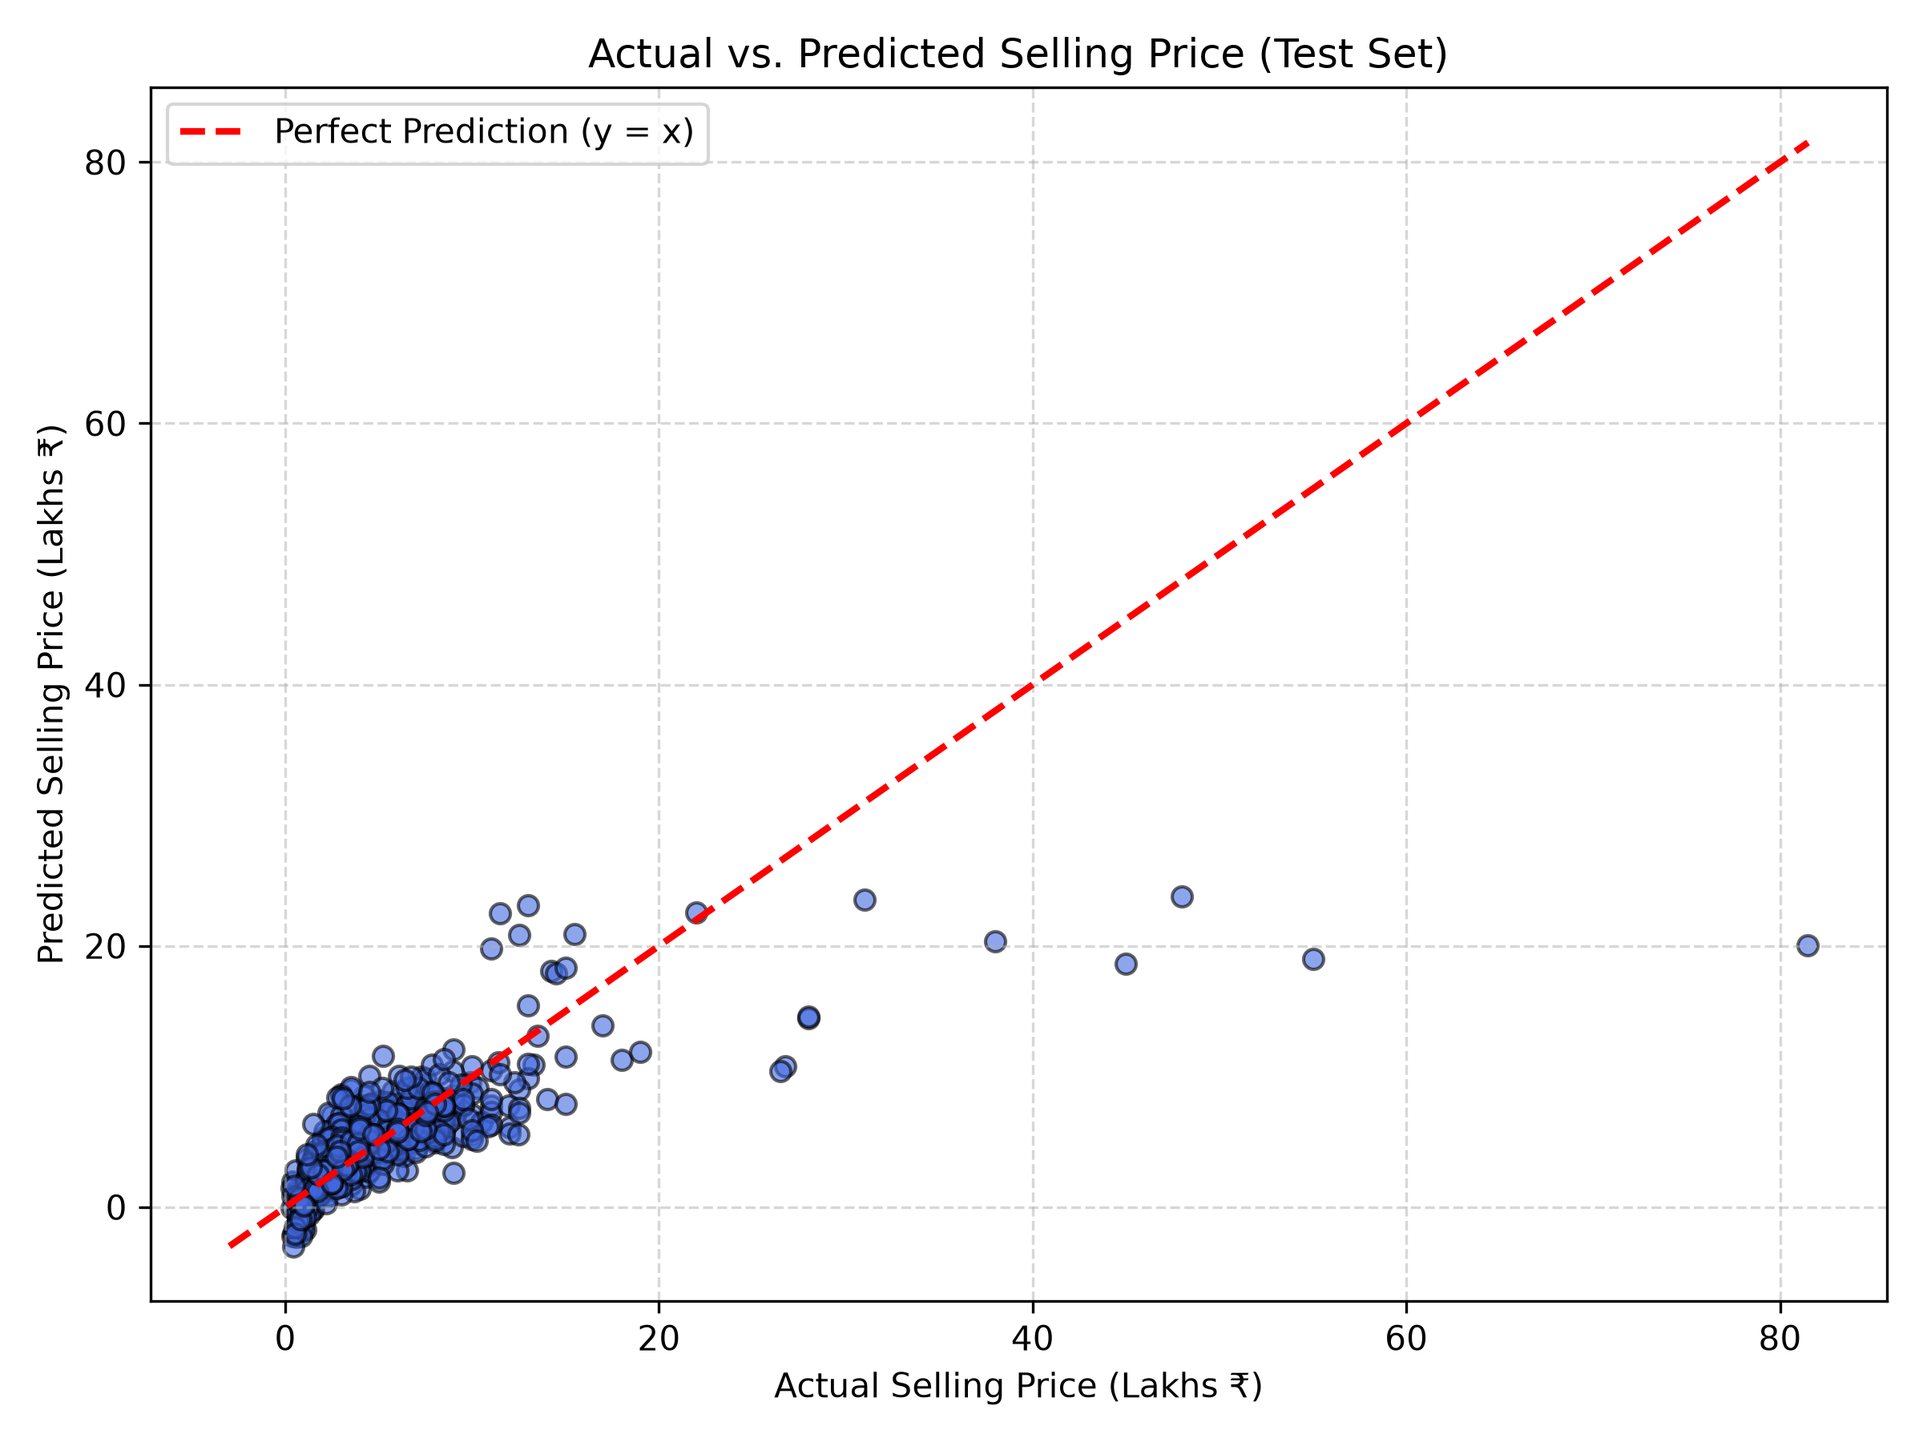
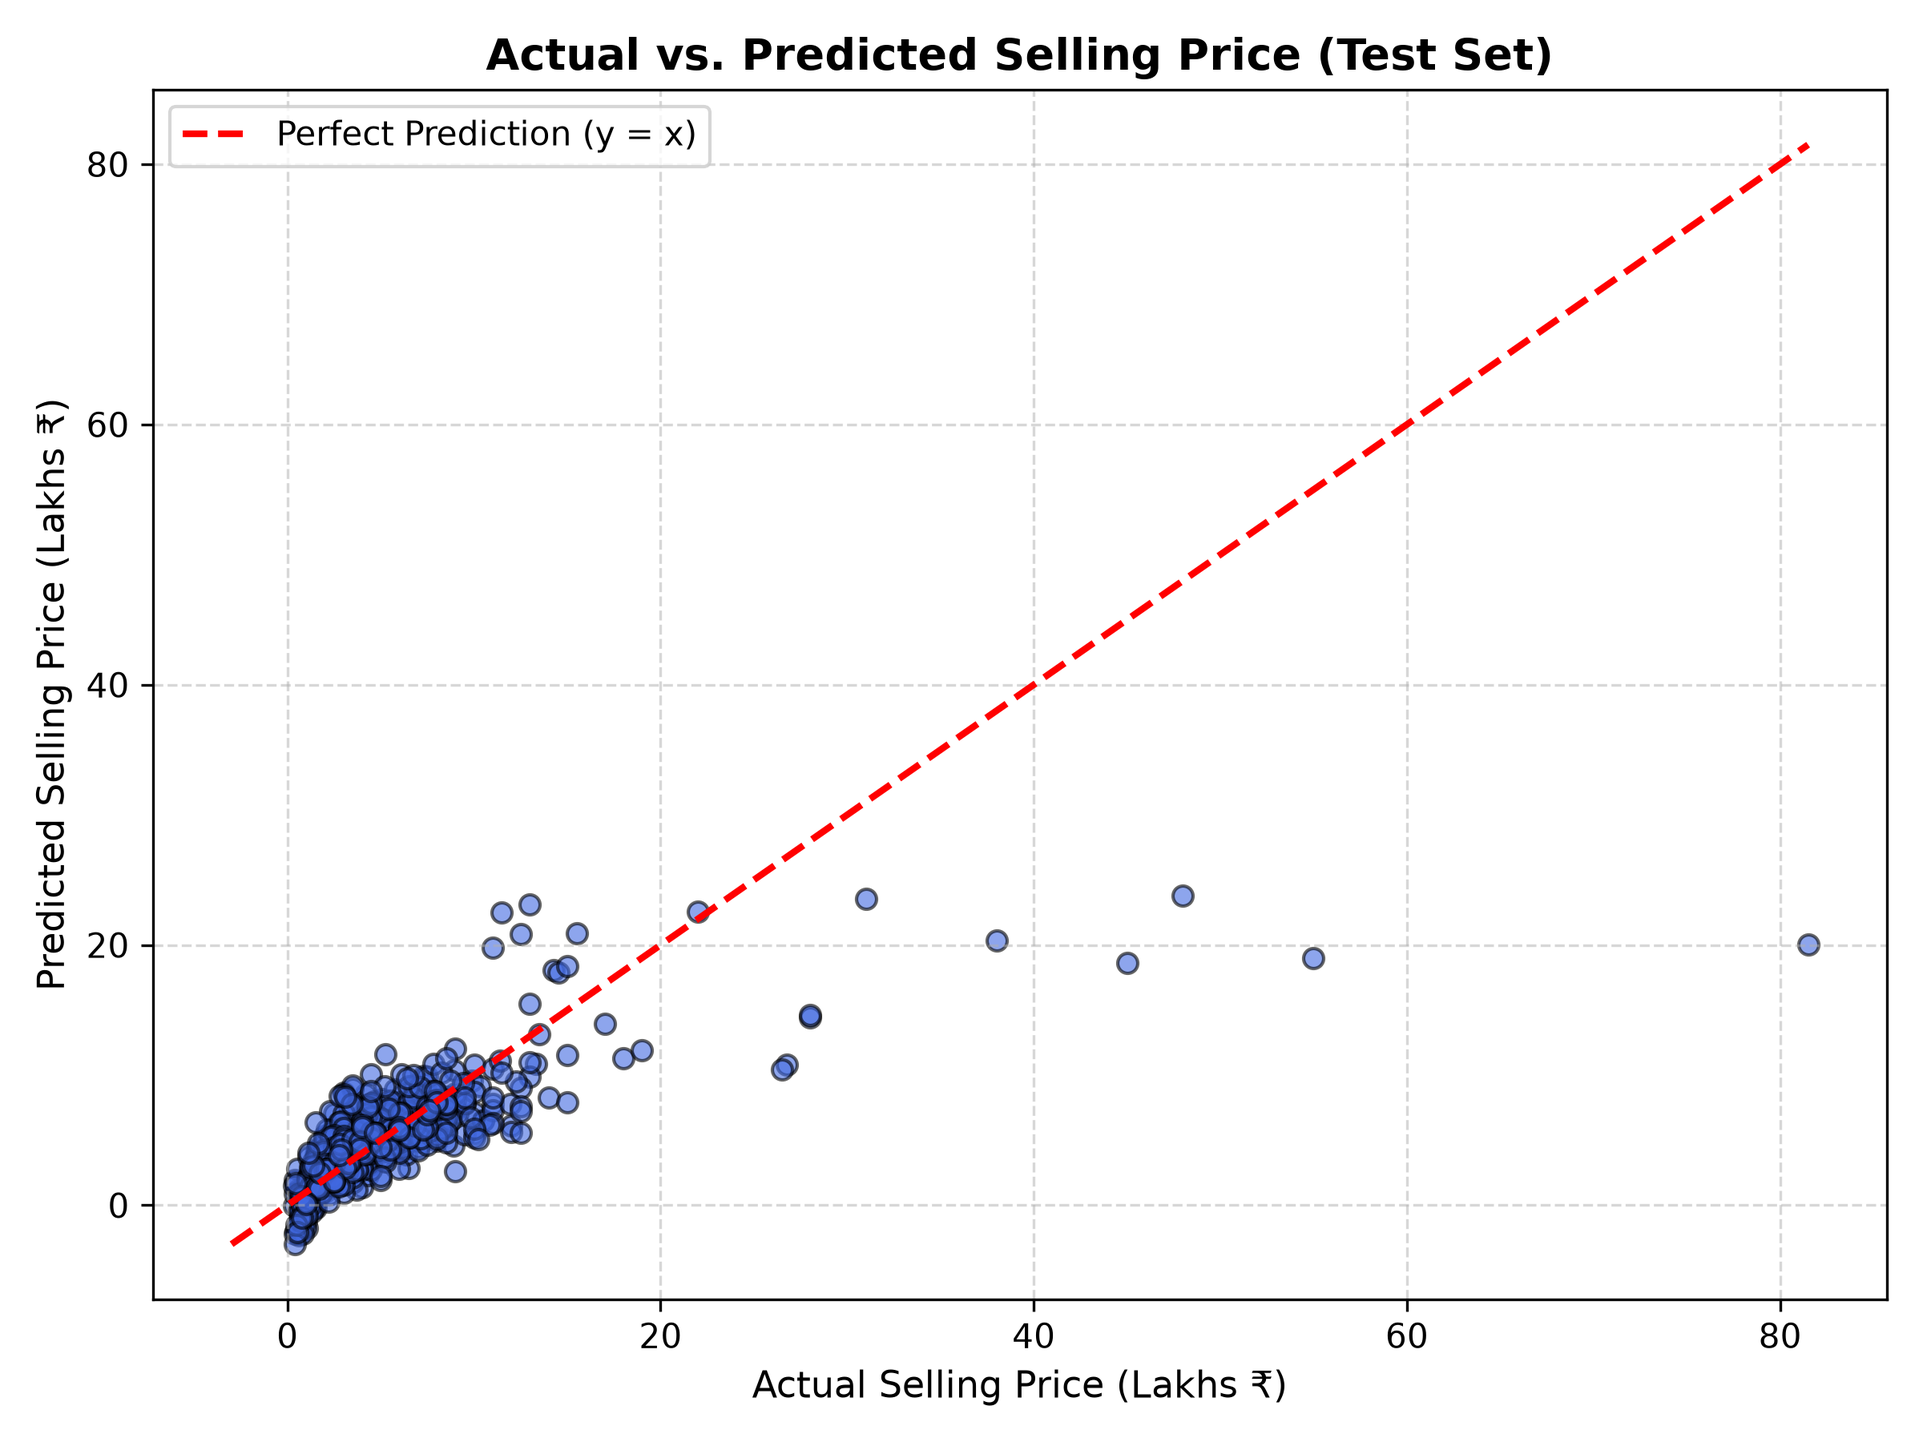
Add training metrics comparison and split coefficient plots into brand, numeric, and categorical views

diff --git a/src/main.py b/src/main.py
@@ -33,9 +33,9 @@ def load_and_clean_data(data_path: Path) -> pd.DataFrame:
     if not data_path.exists():
         raise FileNotFoundError(f"Dataset not found at {data_path}")
 
-    print("=" * 60)
-    print("   USED CAR PRICE PREDICTION - PIPELINE EXECUTION")
-    print("=" * 60)
+    print("=" * 65)
+    print("      USED CAR PRICE PREDICTION - PIPELINE EXECUTION")
+    print("=" * 65)
     print("\n[1/5] Loading and cleaning dataset...")
 
     df = pd.read_csv(data_path)
@@ -143,48 +143,55 @@ def build_and_train_model(X_train: pd.DataFrame, y_train: pd.Series, numeric_fea
     }).sort_values(by="Coefficient", ascending=False).reset_index(drop=True)
 
     print(f"      Base Intercept: ₹{intercept:,.2f}")
-    print(f"      Top Positive Driver: {coef_df.iloc[0]['Feature']} (+₹{coef_df.iloc[0]['Coefficient']:,.2f})")
-    print(f"      Top Negative Driver: {coef_df.iloc[-1]['Feature']} (₹{coef_df.iloc[-1]['Coefficient']:,.2f})")
 
     return model, encoded_feature_names, coef_df
 
 
 def evaluate_model(model: Pipeline, X_train: pd.DataFrame, y_train: pd.Series, X_test: pd.DataFrame, y_test: pd.Series):
     """
-    Generate test set predictions and calculate standard regression evaluation metrics.
+    Generate predictions and calculate regression metrics for both Training and Testing sets.
     """
-    print("\n" + "=" * 60)
-    print("             MODEL EVALUATION METRICS (TEST SET)             ")
-    print("=" * 60)
+    print("\n" + "=" * 65)
+    print("             MODEL EVALUATION METRICS (TRAIN VS. TEST)             ")
+    print("=" * 65)
 
-    y_pred = model.predict(X_test)
+    # Predictions
+    y_train_pred = model.predict(X_train)
+    y_test_pred = model.predict(X_test)
 
-    # Compute metrics
-    r2_train = model.score(X_train, y_train)
-    r2_test = r2_score(y_test, y_pred)
-    mae = mean_absolute_error(y_test, y_pred)
-    mse = mean_squared_error(y_test, y_pred)
-    rmse = np.sqrt(mse)
+    # Training Metrics
+    r2_train = r2_score(y_train, y_train_pred)
+    mae_train = mean_absolute_error(y_train, y_train_pred)
+    mse_train = mean_squared_error(y_train, y_train_pred)
+    rmse_train = np.sqrt(mse_train)
 
-    print(f"Training R² Score          : {r2_train:.4f}")
-    print(f"Testing R² Score           : {r2_test:.4f}")
-    print(f"Mean Absolute Error (MAE)  : ₹{mae:,.2f}")
-    print(f"Mean Squared Error (MSE)   : {mse:,.2f}")
-    print(f"Root Mean Squared Error    : ₹{rmse:,.2f}")
-    print("=" * 60)
+    # Testing Metrics
+    r2_test = r2_score(y_test, y_test_pred)
+    mae_test = mean_absolute_error(y_test, y_test_pred)
+    mse_test = mean_squared_error(y_test, y_test_pred)
+    rmse_test = np.sqrt(mse_test)
 
-    return y_pred, {
-        "r2_train": r2_train,
-        "r2_test": r2_test,
-        "mae": mae,
-        "mse": mse,
-        "rmse": rmse
+    # Formatted display table
+    print(f"{'Metric':<28} | {'Training Set':<16} | {'Testing Set':<16}")
+    print("-" * 65)
+    print(f"{'R² Score (Variance Exp.)':<28} | {r2_train:<16.4f} | {r2_test:<16.4f}")
+    print(f"{'Mean Absolute Error (MAE)':<28} | ₹{mae_train:<15,.2f} | ₹{mae_test:<15,.2f}")
+    print(f"{'Mean Squared Error (MSE)':<28} | {mse_train:<16,.2f} | {mse_test:<16,.2f}")
+    print(f"{'Root Mean Squared Error':<28} | ₹{rmse_train:<15,.2f} | ₹{rmse_test:<15,.2f}")
+    print("=" * 65)
+
+    metrics = {
+        "train": {"r2": r2_train, "mae": mae_train, "mse": mse_train, "rmse": rmse_train},
+        "test": {"r2": r2_test, "mae": mae_test, "mse": mse_test, "rmse": rmse_test}
     }
+
+    return y_test_pred, metrics
 
 
 def save_plots(y_test: pd.Series, y_pred: np.ndarray, coef_df: pd.DataFrame, output_dir: Path):
     """
     Generate and save diagnostic evaluation plots in the output directory.
+    Decomposes coefficients into Brand, Numeric, and Categorical plots.
     """
     output_dir.mkdir(parents=True, exist_ok=True)
     print(f"\nSaving visualization plots to: {output_dir}")
@@ -195,9 +202,9 @@ def save_plots(y_test: pd.Series, y_pred: np.ndarray, coef_df: pd.DataFrame, out
     low = min(float(np.min(y_test)), float(np.min(y_pred))) / 100000
     high = max(float(np.max(y_test)), float(np.max(y_pred))) / 100000
     plt.plot([low, high], [low, high], color="red", linestyle="--", linewidth=2, label="Perfect Prediction (y = x)")
-    plt.title("Actual vs. Predicted Selling Price (Test Set)")
-    plt.xlabel("Actual Selling Price (Lakhs ₹)")
-    plt.ylabel("Predicted Selling Price (Lakhs ₹)")
+    plt.title("Actual vs. Predicted Selling Price (Test Set)", fontsize=13, fontweight="bold")
+    plt.xlabel("Actual Selling Price (Lakhs ₹)", fontsize=11)
+    plt.ylabel("Predicted Selling Price (Lakhs ₹)", fontsize=11)
     plt.legend()
     plt.grid(True, linestyle="--", alpha=0.5)
     plt.tight_layout()
@@ -211,9 +218,9 @@ def save_plots(y_test: pd.Series, y_pred: np.ndarray, coef_df: pd.DataFrame, out
     plt.figure(figsize=(8, 6))
     plt.hist(residuals, bins=35, color="coral", edgecolor="black", alpha=0.7)
     plt.axvline(0, color="black", linestyle="--", linewidth=1.5, label="Zero Error")
-    plt.title("Residual Error Distribution (Actual - Predicted)")
-    plt.xlabel("Error (Lakhs ₹)")
-    plt.ylabel("Frequency")
+    plt.title("Residual Error Distribution (Actual - Predicted)", fontsize=13, fontweight="bold")
+    plt.xlabel("Prediction Error (Lakhs ₹)", fontsize=11)
+    plt.ylabel("Frequency", fontsize=11)
     plt.legend()
     plt.grid(True, linestyle="--", alpha=0.5)
     plt.tight_layout()
@@ -222,23 +229,82 @@ def save_plots(y_test: pd.Series, y_pred: np.ndarray, coef_df: pd.DataFrame, out
     plt.close()
     print(f"  [+] Saved: {residual_path.name}")
 
-    # 3. Top Feature Coefficients Bar Chart
-    top_pos = coef_df.head(6)
-    top_neg = coef_df.tail(6)
-    plot_df = pd.concat([top_pos, top_neg]).sort_values("Coefficient")
+    # 3. Plot A: Brand-wise Coefficients (All 27 Brands)
+    brand_df = coef_df[coef_df["Feature"].str.startswith("cat__brand_")].copy()
+    brand_df["Brand_Name"] = brand_df["Feature"].str.replace("cat__brand_", "")
+    brand_df = brand_df.sort_values(by="Coefficient", ascending=True)
 
-    plt.figure(figsize=(10, 6))
-    colors = ["crimson" if c < 0 else "forestgreen" for c in plot_df["Coefficient"]]
-    plt.barh(plot_df["Feature"], plot_df["Coefficient"] / 100000, color=colors, edgecolor="black")
-    plt.axvline(0, color="black", linewidth=1)
-    plt.title("Top Feature Coefficients (Impact on Price in Lakhs ₹)")
-    plt.xlabel("Coefficient Value (Lakhs ₹)")
+    plt.figure(figsize=(10, 8))
+    colors = ["forestgreen" if c >= 0 else "crimson" for c in brand_df["Coefficient"]]
+    plt.barh(brand_df["Brand_Name"], brand_df["Coefficient"] / 100000, color=colors, edgecolor="black", alpha=0.85)
+    plt.axvline(0, color="black", linewidth=1.2)
+    plt.title("Brand Equity Coefficients (Relative Price Impact in Lakhs ₹)", fontsize=13, fontweight="bold")
+    plt.xlabel("Price Impact (Lakhs ₹)", fontsize=11)
+    plt.ylabel("Car Brand", fontsize=11)
     plt.grid(axis="x", linestyle="--", alpha=0.5)
     plt.tight_layout()
-    coef_path = output_dir / "feature_coefficients.png"
-    plt.savefig(coef_path, dpi=300)
+    brand_path = output_dir / "brand_coefficients.png"
+    plt.savefig(brand_path, dpi=300)
     plt.close()
-    print(f"  [+] Saved: {coef_path.name}")
+    print(f"  [+] Saved: {brand_path.name}")
+
+    # 4. Plot B: Numeric Features (Age vs. Km Driven Depreciation)
+    numeric_df = coef_df[coef_df["Feature"].str.startswith("num__")].copy()
+    name_map = {
+        "num__age": "Vehicle Age\n(per +1 Std Dev ~ 4.2 yrs)",
+        "num__km_driven": "Kilometers Driven\n(per +1 Std Dev ~ 44k km)"
+    }
+    numeric_df["Clean_Name"] = numeric_df["Feature"].map(name_map)
+    numeric_df = numeric_df.sort_values(by="Coefficient", ascending=True)
+
+    plt.figure(figsize=(7, 5))
+    bars = plt.bar(numeric_df["Clean_Name"], numeric_df["Coefficient"] / 100000, color=["firebrick", "indianred"], edgecolor="black", width=0.45)
+    plt.axhline(0, color="black", linewidth=1)
+    plt.title("Continuous Feature Coefficients: Rate of Depreciation", fontsize=13, fontweight="bold")
+    plt.ylabel("Price Impact (Lakhs ₹ per Std Dev)", fontsize=11)
+    plt.grid(axis="y", linestyle="--", alpha=0.5)
+
+    for bar in bars:
+        height = bar.get_height()
+        plt.text(bar.get_x() + bar.get_width() / 2, height - 0.12, f"₹{height:.2f}L", ha="center", va="top", fontweight="bold", color="white")
+
+    plt.tight_layout()
+    numeric_path = output_dir / "numeric_coefficients.png"
+    plt.savefig(numeric_path, dpi=300)
+    plt.close()
+    print(f"  [+] Saved: {numeric_path.name}")
+
+    # 5. Plot C: Categorical Specifications (Transmission, Fuel, Owner, Seller)
+    fig, axes = plt.subplots(2, 2, figsize=(14, 10))
+
+    specs = [
+        ("Transmission", "cat__transmission_", axes[0, 0], "mediumpurple"),
+        ("Fuel Type", "cat__fuel_", axes[0, 1], "darkcyan"),
+        ("Owner History", "cat__owner_", axes[1, 0], "goldenrod"),
+        ("Seller Type", "cat__seller_type_", axes[1, 1], "steelblue"),
+    ]
+
+    for title, prefix, ax, color in specs:
+        sub_df = coef_df[coef_df["Feature"].str.startswith(prefix)].copy()
+        sub_df["Label"] = sub_df["Feature"].str.replace(prefix, "")
+        sub_df = sub_df.sort_values(by="Coefficient", ascending=True)
+        ax.barh(sub_df["Label"], sub_df["Coefficient"] / 100000, color=color, edgecolor="black", alpha=0.85)
+        ax.axvline(0, color="black", linewidth=1)
+        ax.set_title(f"{title} Coefficients", fontsize=11, fontweight="bold")
+        ax.set_xlabel("Impact (Lakhs ₹)")
+        ax.grid(axis="x", linestyle="--", alpha=0.5)
+
+    plt.suptitle("Vehicle Specification Categorical Coefficients (Impact in Lakhs ₹)", fontsize=14, fontweight="bold")
+    plt.tight_layout()
+    cat_path = output_dir / "categorical_coefficients.png"
+    plt.savefig(cat_path, dpi=300)
+    plt.close()
+    print(f"  [+] Saved: {cat_path.name}")
+
+    # Clean up obsolete single feature_coefficients.png if present
+    old_coef_file = output_dir / "feature_coefficients.png"
+    if old_coef_file.exists():
+        old_coef_file.unlink()
 
 
 def main():
@@ -259,15 +325,15 @@ def main():
         X_train, y_train, numeric_features, categorical_features
     )
 
-    # 6. Evaluate model on test set
+    # 6. Evaluate model on test set (with both train & test metrics)
     y_pred, metrics = evaluate_model(model, X_train, y_train, X_test, y_test)
 
     # 7. Save output plots
     save_plots(y_test, y_pred, coef_df, OUTPUT_DIR)
 
-    print("\n" + "=" * 60)
+    print("\n" + "=" * 65)
     print("Pipeline execution and visualization completed successfully!")
-    print("=" * 60)
+    print("=" * 65)
 
 
 if __name__ == "__main__":

diff --git a/README.md b/README.md
@@ -20,8 +20,10 @@ ai101-mini-project/
 │   └── CAR DETAILS FROM CAR DEKHO.csv      # Raw Car Dekho used cars dataset
 ├── output/
 │   ├── actual_vs_predicted.png             # Actual vs Predicted evaluation plot
-│   ├── feature_coefficients.png            # Top positive and negative coefficients
-│   └── residual_distribution.png           # Residual error distribution plot
+│   ├── residual_distribution.png           # Residual error distribution plot
+│   ├── brand_coefficients.png              # Brand equity valuation coefficients
+│   ├── numeric_coefficients.png            # Age & mileage depreciation coefficients
+│   └── categorical_coefficients.png        # Transmission, Fuel, Owner, Seller subplots
 ├── src/
 │   └── main.py                             # Standalone command-line execution script
 ├── Used_Car_Price_Prediction.ipynb         # Interactive Jupyter Notebook walkthrough
@@ -104,21 +106,23 @@ Raw Data (4,340 rows)
 
 ## 📊 Model Evaluation & Results
 
-The model was evaluated on the held-out test set ($N = 716$ unseen cars):
+The model was trained on $2,861$ instances and evaluated on $716$ unseen test cars ($80/20$ split):
 
-| Metric | Training Set | Testing Set | Interpretation |
-| :--- | :---: | :---: | :--- |
-| **$R^2$ Score** | **0.6608** | **0.5405** | Explains ~54.1% of price variance on unseen data. |
-| **Mean Absolute Error (MAE)** | — | **₹1,79,641.77** | Average prediction deviation from true market price. |
-| **Mean Squared Error (MSE)** | — | **1.4801 × 10¹¹** | Average squared error. |
-| **Root Mean Squared Error (RMSE)** | — | **₹3,84,722.70** | Penalizes larger valuation errors; reflects high-end luxury spread. |
-| **Model Base Intercept** | — | **₹1,042,435.48** | Baseline reference value at centered/standardized features. |
+| Metric | Training Set | Testing Set | Generalization Gap | Interpretation |
+| :--- | :---: | :---: | :---: | :--- |
+| **$R^2$ Score (Variance Explained)** | **0.6608** | **0.5405** | $-0.1203$ | Explains ~54.1% of variance on completely unseen data. |
+| **Mean Absolute Error (MAE)** | **₹1,62,856.05** | **₹1,79,641.77** | $+₹16,785.72$ | Average prediction error is closely matched between train and test. |
+| **Mean Squared Error (MSE)** | **8.2620 × 10¹⁰** | **1.4801 × 10¹¹** | $+6.5392 \times 10^{10}$ | Heavily penalizes luxury car outliers in the test fold. |
+| **Root Mean Squared Error (RMSE)** | **₹2,87,436.88** | **₹3,84,722.70** | $+₹97,285.82$ | Standard deviation of residual prediction errors. |
+| **Model Base Intercept** | — | **₹1,042,435.48** | — | Baseline reference price at mean/standardized feature values. |
+
+> **Key Observation:** The close agreement between Training MAE (₹1.62L) and Testing MAE (₹1.79L) confirms that the model avoids severe overfitting and generalizes well to unseen used cars.
 
 ---
 
 ## 📈 Visual Diagnostic Plots
 
-All plots are automatically generated and saved by `src/main.py` inside the `output/` directory:
+All plots are automatically generated and saved by `src/main.py` in the `output/` directory:
 
 ### 1. Actual vs. Predicted Selling Price
 Compares true test set prices against model predictions. Points along the dashed red diagonal line ($y = x$) represent perfect predictions:
@@ -126,22 +130,36 @@ Compares true test set prices against model predictions. Points along the dashed
 ![Actual vs Predicted](output/actual_vs_predicted.png)
 
 ### 2. Residual Error Distribution
-Displays the distribution of prediction residuals ($\text{Actual} - \text{Predicted}$). Centering around zero confirms unbiased estimation:
+Displays the distribution of prediction residuals ($\text{Actual} - \text{Predicted}$). Centering around zero confirms an unbiased linear estimator:
 
 ![Residual Distribution](output/residual_distribution.png)
 
-### 3. Top Feature Coefficients (Price Drivers)
-Illustrates which vehicle characteristics produce the largest positive (premium) or negative (discount) impact on resale price:
+### 3. Brand Equity Coefficients (All 27 Brands)
+Demonstrates the massive impact of brand perception. Luxury marques (Land Rover, Volvo, Audi, Jaguar, BMW) command multi-lakh premiums, whereas budget-oriented brands experience relative resale discounts:
 
-![Feature Coefficients](output/feature_coefficients.png)
+![Brand Coefficients](output/brand_coefficients.png)
+
+### 4. Continuous Feature Depreciation (Age vs. Mileage)
+Directly compares the rate of depreciation caused by vehicle aging versus odometer mileage per standard deviation:
+- **Vehicle Age**: Drops price by **~₹1,50,690** per 1 standard deviation (~4.2 years).
+- **Kilometers Driven**: Drops price by **~₹47,754** per 1 standard deviation (~44,000 km).
+
+![Numeric Coefficients](output/numeric_coefficients.png)
+
+### 5. Vehicle Specification Attributes (Transmission, Fuel, Owner, Seller)
+Subplots detailing how specific mechanical and ownership features influence valuation:
+- **Transmission**: Automatic cars command a substantial premium over manual models.
+- **Fuel Type**: Diesel vehicles command higher market values than Petrol or CNG alternatives.
+- **Ownership**: First-owner cars maintain superior resale value compared to multi-owner vehicles.
+
+![Categorical Coefficients](output/categorical_coefficients.png)
 
 ---
 
 ## 💡 Key Business & Data Insights
-1. **Age Depreciation**: Vehicle age is the strongest negative continuous driver ($\approx -₹1,50,690$ per standard deviation increase in age).
-2. **Mileage Wear & Tear**: Kilometers driven moderately depresses price ($\approx -₹47,753$ per standard deviation increase).
-3. **Transmission Premium**: Automatic transmission commands a substantial premium over manual counterparts.
-4. **Brand Equity**: Luxury marques (Land Rover, Volvo, Audi, Jaguar, BMW) command significant premiums (+₹8.6L to +₹23.3L over baseline), while economy brands (Datsun, Force, Chevrolet) trade at notable discounts.
+1. **Age vs. Mileage**: Car age depreciates vehicle value more than three times as rapidly as odometer mileage.
+2. **Transmission Premium**: Automatic gearboxes significantly elevate secondary market prices.
+3. **Brand Stratification**: Brand equity is the single most dominant driver in the dataset, with premium European brands commanding up to ₹23.3L over baseline.
 
 ---
 
